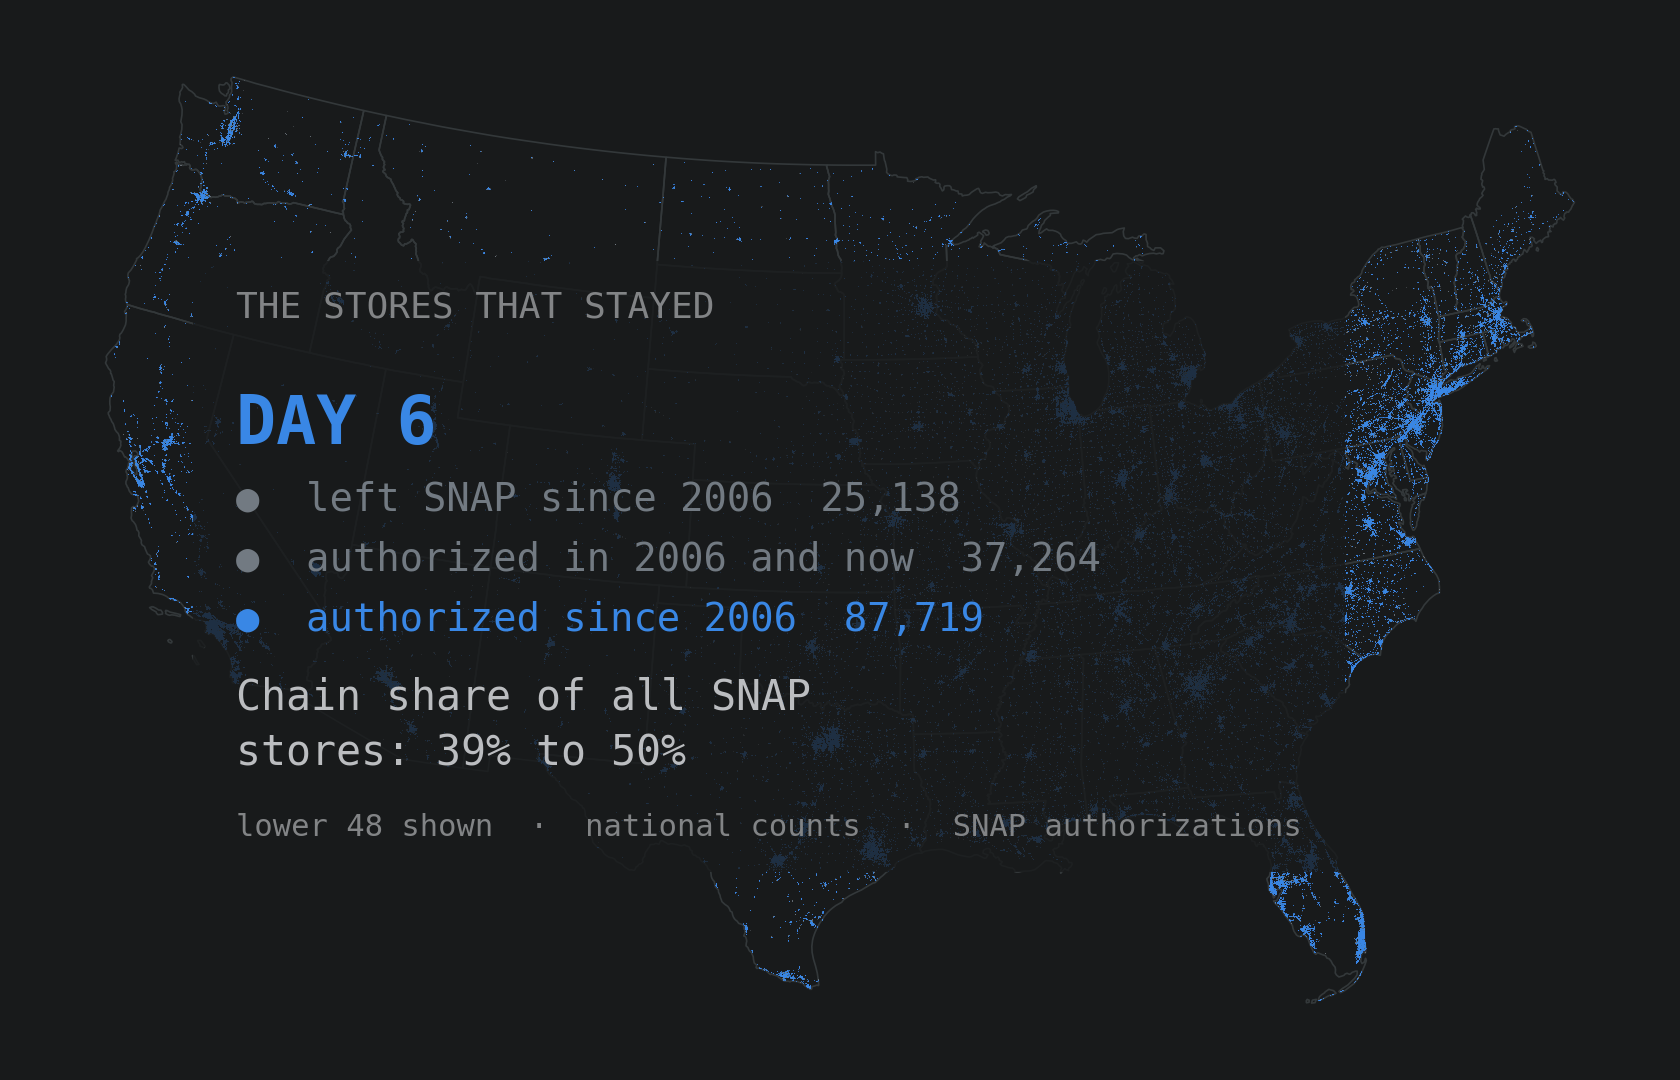
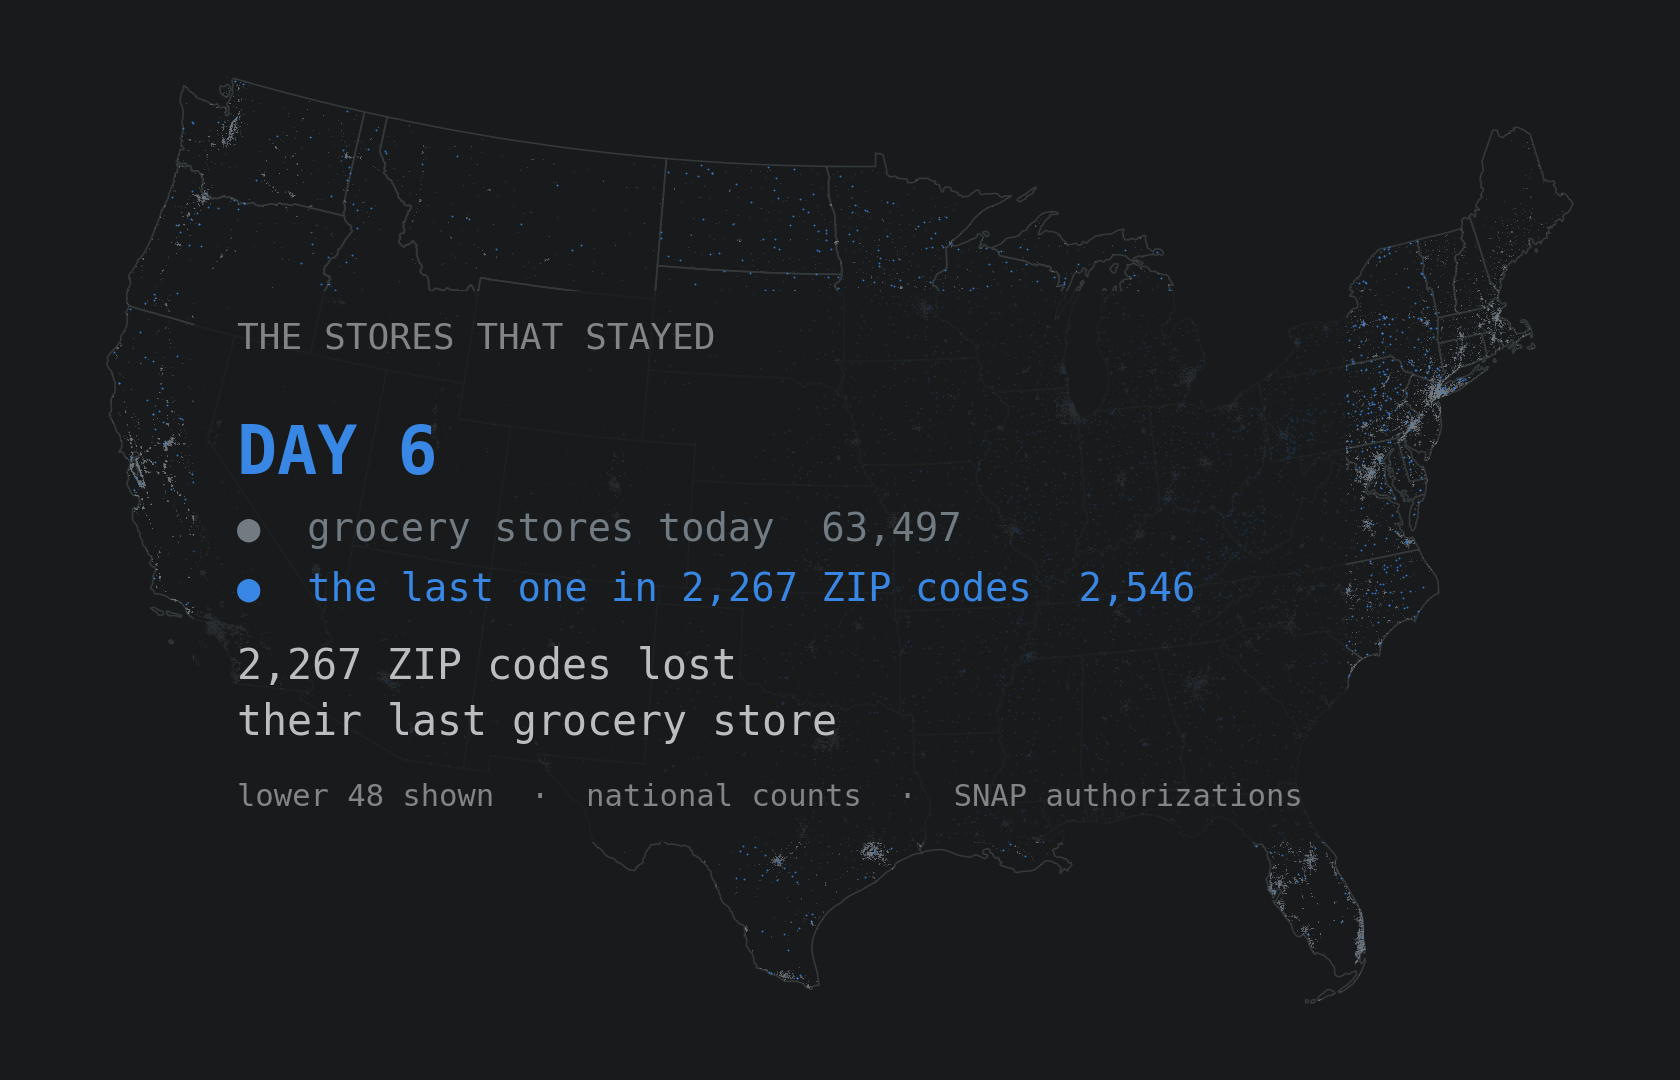
Day6 post updates: redraw the hero.
The old frame keyed "Chain share of all SNAP stores: 39% to 50%", which
the rebuilt post no longer contains anywhere — it went out with the
ownership material, along with the card and ledger figures that carried
it. It was the last place that number survived.

The new one is the title in dots, the way Day 4's is. A faint field of
the 63,497 grocery stores open today, and over it the 2,546 that stood in
2006 in the 2,267 ZIP codes that have none now. Those ZIP codes are small
and far apart, so the blue scatters through the Plains and interior West
with almost no grey around it while the grey mass clumps on the coasts —
two Americas, drawn from the data rather than asserted.

Hero alt text in the page meta rewritten to match, and the note flagging
the stale hero is retired.

diff --git a/src/analysis/hero.py b/src/analysis/hero.py
@@ -327,28 +327,41 @@ def main():
                "Chain pharmacies")
 
     if want is None or 6 in want:
-        # Not chain against independent: two dense categories over the whole
-        # country cannot show a 59/41 split, because whichever draws last buries
-        # the other. This shows what happened to the chain estate instead.
+        # The title in dots. Grey is every grocery store authorized today; the
+        # bright layer is the grocery stores that stood, in 2006, in the 2,267
+        # ZIP codes that have none now. Those ZIP codes are small and mostly
+        # interior, so the two layers separate on the map the way the piece says
+        # they separate in the data.
         #
-        # All THREE buckets are plotted and keyed. An earlier cut dropped the
-        # departures and labelled the survivors "chain, authorized in 2006",
-        # which read as the 2006 total — 62,402 — when it is the 37,264 of them
-        # that were still authorized in 2025. The 25,138 that left were nowhere
-        # on the frame. With all three, both totals are recoverable: survivors
-        # plus departures is 2006 (62,402), survivors plus arrivals is 2025
-        # (124,983) — the counts post 5 publishes.
-        s = split(con, "p.ownership = 'chain'", 2006, 2025)
+        # The chain-share version this replaces keyed a figure the rebuilt post
+        # no longer contains.
+        from analysis.post5_synthesis import GROC as _GROC
+        con.execute(f"""
+            CREATE OR REPLACE TEMP TABLE zg6 AS
+            SELECT y.yr, p.zip_code AS zip,
+                   count(DISTINCT CASE WHEN p.format IN {_GROC} THEN p.record_id END) AS groc
+            FROM generate_series(2006, 2025) AS y(yr)
+            JOIN fact_spell f ON NOT f.date_anomaly
+                             AND f.auth_date <= make_date(y.yr,12,31)
+                             AND (f.end_date IS NULL OR f.end_date >= make_date(y.yr,12,31))
+            JOIN panel p ON p.record_id = f.record_id
+            WHERE p.zip_code IS NOT NULL AND length(p.zip_code) = 5
+            GROUP BY 1, 2""")
+        con.execute("""
+            CREATE OR REPLACE TEMP TABLE lostzip6 AS
+            SELECT a.zip FROM (SELECT zip, groc FROM zg6 WHERE yr = 2006) a
+            LEFT JOIN (SELECT zip, groc FROM zg6 WHERE yr = 2025) b USING(zip)
+            WHERE a.groc > 0 AND coalesce(b.groc,0) = 0""")
+        n_lost_zips = con.execute("SELECT count(*) FROM lostzip6").fetchone()[0]
+        now_xy, n_now = points(con, f"p.format IN {_GROC}", 2025)
+        gone_xy, n_gone = points(
+            con, f"p.format IN {_GROC} AND p.zip_code IN (SELECT zip FROM lostzip6)", 2006)
         render(OUT / "day-6.png", 6,
-               [{"xy": s["lost"][0], "color": MUTED, "size": 0.6, "alpha": 0.45,
-                 "label": f"left SNAP since 2006  {s['lost'][1]:,}"},
-                {"xy": s["kept"][0], "color": MUTED, "size": 0.6, "alpha": 0.95,
-                 "label": f"authorized in 2006 and now  {s['kept'][1]:,}"},
-                {"xy": s["added"][0], "color": HUE[6], "size": 0.6, "alpha": 0.9,
-                 "label": f"authorized since 2006  {s['added'][1]:,}"}],
-               # "Chains went 39% to 50%" invited the reader to derive a share
-               # from two counts it cannot be derived from. Says share now.
-               "Chain share of all SNAP stores: 39% to 50%")
+               [{"xy": now_xy, "color": MUTED, "size": 0.6, "alpha": 0.42,
+                 "label": f"grocery stores today  {n_now:,}"},
+                {"xy": gone_xy, "color": HUE[6], "size": 1.9, "z": 3,
+                 "label": f"the last one in {n_lost_zips:,} ZIP codes  {n_gone:,}"}],
+               f"{n_lost_zips:,} ZIP codes lost their last grocery store")
 
     if want is None or 7 in want:
         # Only ONE count is keyed here, deliberately.

diff --git a/reports/day6-page-meta.md b/reports/day6-page-meta.md
@@ -33,13 +33,13 @@ Grocery and pharmacy were more than half the food retail in these places. They a
 **Hero alt text:**
 
 ```
-Dot map of the lower 48 states on a dark ground showing twenty years of SNAP retail turnover. Bright blue dots mark the 87,719 stores authorized since 2006, densest along the eastern seaboard and in California; grey dots mark the 37,264 authorized in 2006 and still authorized now, and the 25,138 that have left. Text on the map reads: The Stores That Stayed. Day 6. Chain share of all SNAP stores: 39% to 50%.
+Dot map of the lower 48 states on a dark ground. A faint grey field shows the 63,497 SNAP-authorized grocery stores open today, dense along both coasts and around cities. Brighter blue dots mark the 2,546 grocery stores that stood in 2006 in the 2,267 ZIP codes that now have none — scattered across the Plains and interior West, where little grey surrounds them. Text on the map reads: The Stores That Stayed. Day 6. 2,267 ZIP codes lost their last grocery store.
 ```
 
 Short version if the field is tight:
 
 ```
-Dot map of US SNAP retail turnover since 2006: 87,719 stores authorized since then, 37,264 there throughout, 25,138 gone.
+Dot map of the lower 48: 2,546 grocery stores in blue that stood where 2,267 ZIP codes now have none, over a faint grey field of the 63,497 open today.
 ```
 
 ## 4. Meta title
@@ -137,10 +137,11 @@ Box plot of ZIP code population for the 2,232 ZIP codes that had a grocery store
 
 - The headline figures also appear as live text above the image on the page;
   keep both so the numbers survive images-off rendering.
-- **The hero is stale.** `day-6.png` still carries the old chain-share framing
-  ("Chain share of all SNAP stores: 39% to 50%"), a figure this post no longer
-  contains. Regenerate it with `python -m analysis.hero 6` once its keyed
-  numbers are decided, then redo the hero alt text above.
+- The hero keys the middle headline figure: the grocery stores that stood, in
+  2006, in the 2,267 ZIP codes with none today, over a faint field of every
+  grocery store open now. The blue reads in the interior because those ZIP
+  codes are small and far apart, which is the piece's finding drawn on a map.
+  Regenerate with `python -m analysis.hero 6`.
 - The four named towns — Mount Clemens MI, Glassport PA, Yorkville OH,
   Whitesville WV — are checkable by anyone who lives there. They count chain
   pharmacies only, and grocery means a SNAP-authorized store in one of USDA's
